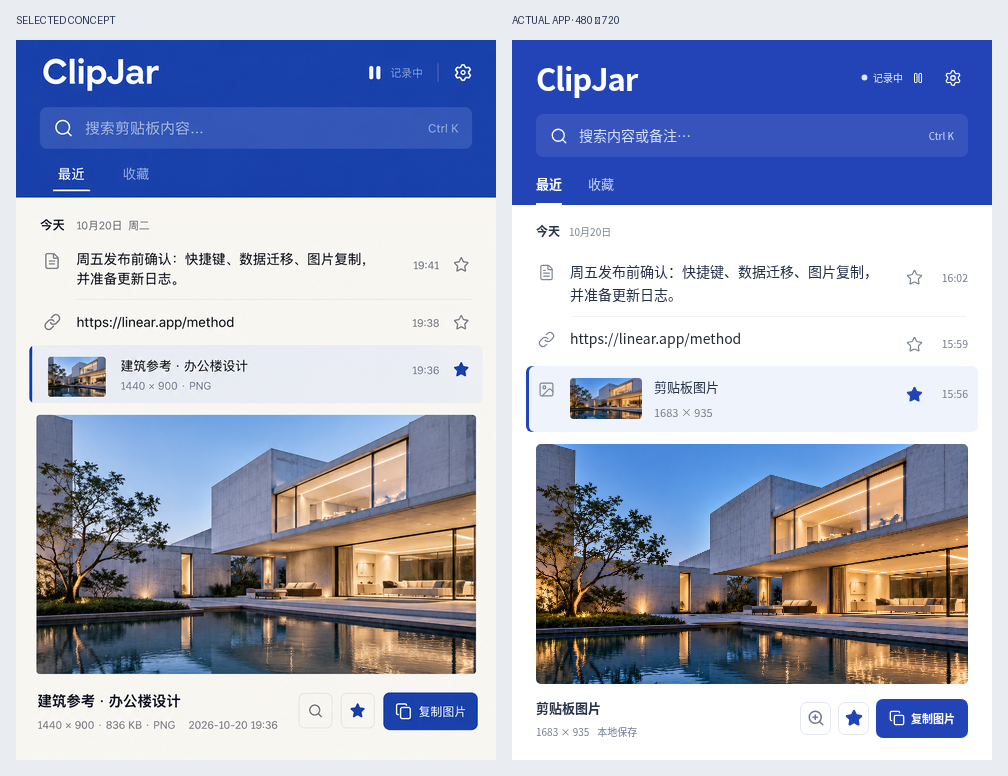
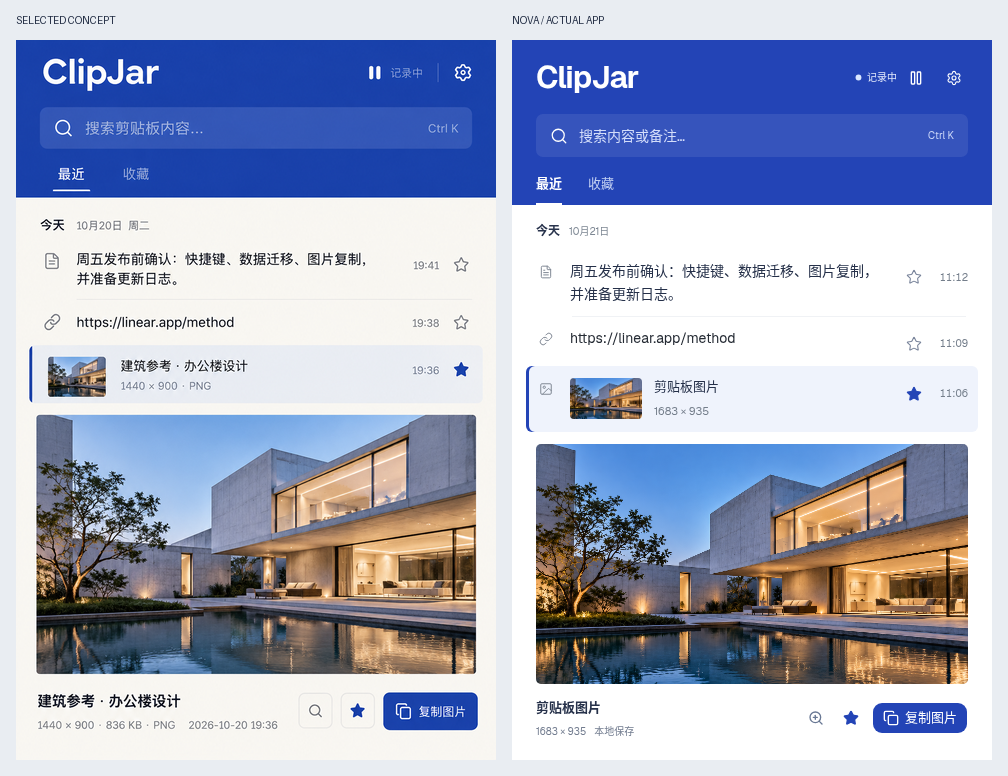
归档 Nova 组件截图、选型来源与三平台验证 [skip ci]

diff --git a/docs/freeze-report.md b/docs/freeze-report.md
@@ -1,49 +1,49 @@
-# 钴蓝与白色版本封板检查
+# Nova 组件迁移验证记录
 
-日期：2026-10-20（Asia/Shanghai）。应用版本维持 1.0.6；本轮完成代码与设计收口，没有发布安装包。
+2026-10-21（Asia/Shanghai）。当前应用版本 1.0.6，按用户指定的组件体系迁移并推送代码供查看。
 
-功能提交：[`5c9a85d`](https://github.com/KeatonLi/clipjar/commit/5c9a85d3e37515ff9de9896ac1e1e37a3b2bab4b)。
+验证代码：[`0515f0c`](https://github.com/KeatonLi/clipjar/commit/0515f0c439e2d6f79cc8559a0fe4e29c1248e9f1)。后续归档提交仅更新截图与说明。
 
-## 变更
+## 本次变更
 
-- 按选中的钴蓝构成稿完成顶栏、白色列表、选中态、设置和预览。
-- 增加图片内联工作区，保留原生图片像素复制、完整预览与键盘操作。
-- 损坏图片禁止复制和放大，明确提示恢复方式。
-- 将前端 Tauri API/插件版本对齐 Rust 锁文件，解决 CLI 构建时的版本检查失败。
-- 明确跨平台浏览器测试中 Windows 快捷键场景的模拟平台，同时保留独立 macOS 快捷键测试。
+- 当前界面使用 shadcn/ui 官方 Nova（Radix）基础组件、Geist 字体和 Lucide 图标。
+- 按钮、输入框、备注框、开关、筛选、快捷键单选、弹窗、暂停菜单、确认框和工具提示统一。
+- 自定义动效使用 Motion，并响应减少动态效果偏好；Zustand 与 Rust/SQLite 数据通路保留。
+- 修复菜单 Escape 影响背景选择、嵌套确认框取消后的焦点返回，以及 Motion 与撤销提示居中样式的冲突。
+- 保留钴蓝白色构成。没有对应功能的分栏、拖拽不添加依赖。
 
-## 本地完整验证
+## 本地验证
 
 | 检查 | 结果 |
 | --- | --- |
 | `npm test` | 33 项通过。 |
-| `cargo test --locked --manifest-path src-tauri/history-core/Cargo.toml` | 19 项存储/采集策略测试通过。 |
-| `python3 -m unittest discover -s tests -p 'test_*.py'` | 3 项诊断工具测试通过。 |
-| `npm run test:browser` | 全部通过，未捕获未处理页面异常。 |
-| `npm run tauri -- build --debug --no-bundle` | TypeScript、生产前端资源与 Linux Tauri 二进制构建通过。 |
-| `npm run test:native` | 真实 Linux Tauri 二进制通过，输出 `CLIPJAR_NATIVE_SMOKE_PASSED`。 |
-| 视觉对照 | [passed](../design-qa.md)，包含 480 × 720 与 420 × 600 状态。 |
-| Linux 原生界面操作 | 实际窗口加载 SQLite 示例及本地图片；点击“复制图片”成功，后端使用次数由 0 增至 1。 |
+| `npm run test:history` | 19 项存储与采集策略测试通过。 |
+| `python3 -m unittest discover -s tests -p 'test_*.py'` | 3 项诊断测试通过。 |
+| `npm run test:browser` | 原有回归与新增 Nova 场景全部通过，无未处理页面异常。 |
+| `npm run build` | TypeScript 与生产资源构建通过。 |
+| 生产资源浏览器检查 | 直接加载 dist，主界面、设置、图片工作区和菜单可运行，无页面异常。 |
+| `npm run tauri -- build --debug --no-bundle` | Linux 真实桌面二进制构建通过，包含生产前端资源。 |
+| `npm run test:native` | Linux 真实系统剪贴板、图片保存、隐藏采集、快捷键和隐私暂停通过。 |
+| 原生界面图片复制 | Linux Tauri 实际窗口点击复制成功，后端使用次数由 0 增至 1。 |
+| [视觉 QA](../design-qa.md) | passed，含 480 × 720、420 × 600 与 Linux 原生窗口。 |
 
-浏览器回归包含 170 条历史、跨批次键盘导航、全文预览与焦点、Mac 快捷键、图片原生像素复制、隐藏更新、独立设置失败/超时/重试、暂停不补录、删除撤销、旧事件拒绝、迁移失败保护与恢复、新图片工作区及损坏图片保护。
+新增 Nova 回归验证菜单键盘打开、方向键导航、Escape 后保留选中图片并返回焦点、Tooltip 显示、快捷键单选键盘操作、减少动态效果、嵌套确认框取消与焦点恢复、清空普通历史保留收藏、取消全部清空，以及确认后删除全部数据。
 
-原生冒烟包含系统文字/图片剪贴板、图片持久化、隐藏窗口继续采集、快捷键注册/注销、窗口显隐、暂停后不补录。Linux 云环境使用 Xvfb 和 rootless PRoot，将已安装的 WebKit 子进程路径映射到标准位置；没有关闭 WebKit 沙箱。测试使用临时数据目录，结束后清理。
+原有回归继续覆盖 170 条历史和跨批次键盘导航、全文/图片预览、原始图片像素复制、设置失败/超时/重试、隐藏更新、暂停不补录、删除撤销、迁移保护和小窗口焦点约束。
 
-## Windows / macOS
+Linux 云桌面使用 Xvfb，rootless PRoot 映射已安装的 WebKit 子进程路径；没有关闭 WebKit 沙箱。所有原生测试与截图使用隔离数据。
 
-[Desktop checks #6](https://github.com/KeatonLi/clipjar/actions/runs/39390341577) 已完成，整体结果 **success**，耗时 6 分 22 秒，验证提交为 `5c9a85d`。
+## Windows / macOS CI
 
-| 平台 | 单测与存储 | 浏览器回归 | 桌面二进制构建 | 真实原生冒烟 |
+[Desktop checks](https://github.com/KeatonLi/clipjar/actions/runs/39537168981) 整体 **success**，耗时 **2 分 57 秒**。
+
+| 平台 | 前端与存储单测 | 浏览器回归 | 真实桌面构建 | 原生冒烟 |
 | --- | --- | --- | --- | --- |
-| [Windows](https://github.com/KeatonLi/clipjar/actions/runs/39390341577/job/118520075656) | 通过 | 通过 | 通过 | 通过 |
-| [macOS 15](https://github.com/KeatonLi/clipjar/actions/runs/39390341577/job/118520075892) | 通过 | 通过 | 通过 | 通过 |
+| [Windows](https://github.com/KeatonLi/clipjar/actions/runs/39537168981/job/119016376897) | 通过 | 通过 | 通过 | 通过 |
+| [macOS 15](https://github.com/KeatonLi/clipjar/actions/runs/39537168981/job/119016376782) | 通过 | 通过 | 通过 | 通过 |
 
-两项任务均完成制品归档和收尾，所有步骤通过。该检查使用真实系统剪贴板与桌面二进制，浏览器场景另外使用模拟命令边界；自动化通过不等同于所有系统缩放、权限配置和安装包分发场景都已人工验证。
+两个任务包括制品归档与收尾均完成。自动化通过不表示所有系统缩放、屏幕阅读器或安装包分发场景都经过人工验收。
 
-## 封板结果
+本轮使用 Tailwind 4 与当前 Nova 样式，需要现代 WebView。旧系统兼容范围见[组件体系](component-system.md)；本轮发布的是 GitHub 代码与预览材料。
 
-本次范围内的设计、功能回归与三平台构建/原生冒烟已完成，没有遗留阻断项。后续截图与报告提交仅归档验收材料，不修改已验证的运行代码。
-
-## 查看效果
-
-[全部界面截图](ui-preview.md) · [设计稿对照](screenshots/cobalt-comparison.png)
+[查看实际截图](ui-preview.md) · [组件来源](component-system.md)

diff --git a/design-qa.md b/design-qa.md
@@ -1,33 +1,32 @@
-# ClipJar 钴蓝与白色视觉验收
+# ClipJar Nova 组件视觉 QA
 
 final result: passed
 
-2026-10-20。依据用户明确选择的“钴蓝构成 + 白色”制作，参考稿为 [02-cobalt.png](docs/design/concepts/02-cobalt.png)。本次验收对象是已有桌面应用，保留真实历史记录、系统复制、收藏、备注、搜索与隐私暂停。
+2026-10-21（Asia/Shanghai）。按用户指定的 shadcn/ui Nova、Lucide、Motion、Zustand 统一当前界面，保留已选的钴蓝与白色构成。没有对应功能的分栏和拖拽不引入。
 
-## 对照与观察
+## 来源与对照
 
-[并排对照](docs/screenshots/cobalt-comparison.png)：左为选中概念稿，右为实际运行页面。参考图从 1024 × 1536 等比缩至 480 × 720，实际截图为 480 × 720 CSS viewport、deviceScaleFactor 1，无拉伸。使用独立示例记录，时区 Asia/Shanghai。
+- 基础控件和 Nova 样式来自 shadcn/ui 官方提交 `ba1503c`，来源及局部适配见[组件体系](docs/component-system.md)。
+- [构成对照](docs/screenshots/cobalt-comparison.png)：左为此前选中的概念稿，右为当前 Nova 实际界面。参考稿从 1024 × 1536 等比归一到 480 × 720；右图 CSS viewport 480 × 720、deviceScaleFactor 1，没有拉伸。
+- [组件对照](docs/screenshots/nova-components.png)：本轮实际主界面、设置与确认弹窗，均使用隔离示例数据。
 
-- 钴蓝 `#2344b6` 集中在顶栏和主要动作；主体按用户要求使用纯白，替代概念稿的暖白。
-- 保留大字标、半透明搜索框、下划线导航、连续列表与轻量选中态。480 × 720 下顶栏约 165 px，图片主操作位于可见范围内。
-- 选中图片后，在记录下方显示大图、真实尺寸、放大、收藏与复制。图片点击用于选择，Enter 复制，Space 仍可打开完整预览。普通文本维持点击复制。
-- 不编造图片文件名、格式或文件大小；未备注时显示“剪贴板图片”。建筑照片由出图模型生成，仅作为测试素材，不进入生产前端包。
-- 设置与完整预览统一为钴蓝标题栏和白色内容。白色焦点轮廓用于蓝底控件，正文区保留蓝色焦点轮廓。
+## 检查与修正
 
-## 已检查表面
+1. 统一 Button 尺寸与变体、Input、Textarea、Switch、ToggleGroup、RadioGroup、Dialog、AlertDialog、DropdownMenu 和 Tooltip。Lucide 保持唯一图标库；采用 Nova 默认 Geist 字体，中文系统回退。
+2. 自写弹窗焦点逻辑由 Radix 模态管理替代；应用状态打开的弹窗补充焦点返回适配。确认框初始焦点在取消，取消或 Escape 后回到原清空按钮。
+3. 暂停菜单支持键盘打开、方向键移动、Escape 关闭并返回触发器。修复菜单 Escape 继续触发列表快捷键、清掉图片选中态的问题。
+4. 弹出内容、开关和撤销提示使用 Motion；减少动态效果偏好下不执行入场过渡。修正 Motion 与撤销提示水平居中样式冲突。
+5. 保留钴蓝顶栏、纯白主体、连续列表和图片工作区。480 × 720 下主要图片操作可见，420 × 600 主体可滚动；设置和确认框在窗口内完整显示。
 
-| 表面 | 结果与证据 |
+## 验收表面
+
+| 表面 | 证据与结果 |
 | --- | --- |
-| 主界面、图片操作 | [主界面](docs/screenshots/main.png)，无横向溢出；图片与复制动作在常用窗口内完整显示。 |
-| 设置、全文、图片预览 | [设置](docs/screenshots/settings.png)、[全文](docs/screenshots/content-preview.png)、[图片预览](docs/screenshots/image-preview.png)，内容可滚动，关闭与焦点恢复正常。 |
-| 420 × 600 小窗口 | [图片工作区](docs/screenshots/small-image.png)、[定时暂停](docs/screenshots/small-paused.png)，主体滚动，顶栏稳定，控制按钮不溢出。 |
-| 暂停与删除撤销 | [暂停菜单](docs/screenshots/pause-menu.png)、[删除撤销](docs/screenshots/delete-undo.png)，状态和操作仍清楚可见。 |
-| 图片错误状态 | 损坏图片显示说明并禁用复制与放大；重新选择恢复后的记录可正常预览和复制。 |
-| Linux 原生运行 | [Tauri 窗口客户区](docs/screenshots/native-linux.png)，真实本地图片加载正常；点击图片复制成功，后端使用次数从 0 增至 1。 |
-| 键盘、模态与反馈 | 170 条历史跨批次导航、搜索、Space、Escape、焦点约束、设置失败与重试均通过回归。 |
+| 主界面和图片工作区 | [截图](docs/screenshots/main.png)，蓝白配色、文本阅读与操作层次保持一致。 |
+| 设置与确认 | [设置](docs/screenshots/settings.png)、[确认框](docs/screenshots/clear-confirm.png)，危险操作与取消分开，背景隔离。 |
+| 菜单与提示 | [暂停菜单](docs/screenshots/pause-menu.png)，默认白色 Nova 菜单；工具提示实际显示并通过回归。 |
+| 完整预览 | [图片](docs/screenshots/image-preview.png)、[全文](docs/screenshots/content-preview.png)，滚动、复制、关闭与焦点返回通过回归。 |
+| 小窗口 | [图片操作](docs/screenshots/small-image.png)、[定时暂停](docs/screenshots/small-paused.png)，无横向溢出，控件可达。 |
+| 原生运行 | [Linux Tauri 客户区](docs/screenshots/native-linux.png)，实际二进制加载隔离 SQLite 记录与本地图片。 |
 
-## 验证边界
-
-主对照及各状态截图来自真实 React 页面与浏览器运行，使用隔离示例数据和原生命令模拟；另单独提供 Linux/Xvfb 的原生窗口截图，使用隔离 SQLite 数据。没有将它们标为 Windows/macOS 原生窗口截图。三平台构建与原生测试结果、完整命令见[封板记录](docs/freeze-report.md)。
-
-没有未解决的 P0/P1/P2 视觉问题。P3：系统字体回退、系统标题栏和缩放的细微差异仍取决于用户的桌面环境。
+没有遗留 P0/P1/P2 视觉问题。自动化验证含正常与减少动态效果模式；没有据截图宣称屏幕阅读器或全部系统缩放均已验收。Windows/macOS 原生测试结果见[验证记录](docs/freeze-report.md)。

diff --git a/docs/component-system.md b/docs/component-system.md
@@ -1,0 +1,40 @@
+# ClipJar 组件体系
+
+按用户指定的选型统一当前正在使用的界面：**shadcn/ui Nova + Lucide + Motion + Zustand**。主题保留钴蓝 `#2344b6` 与白色；分栏和拖拽尚无对应功能，因此没有引入 react-resizable-panels 或 dnd-kit。
+
+## 来源与配置
+
+- `components.json`：`radix-nova`，Lucide，React 客户端组件。
+- 基础组件来自 [shadcn/ui 官方 Radix 源码](https://github.com/shadcn-ui/ui/tree/ba1503c64472b82256d9de95e2e62c5901a38e8b/apps/v4/registry/bases/radix/ui)。shadcn/ui 以源码形式接入，并不要求安装一个运行时组件包。
+- Nova 样式来自同一提交的 [style-nova.css](https://github.com/shadcn-ui/ui/blob/ba1503c64472b82256d9de95e2e62c5901a38e8b/apps/v4/registry/styles/style-nova.css)，仅保留当前组件的样式段。使用默认白色菜单；主题变量在 `src/styles/tokens.css`。
+- 状态选择器来自 shadcn 4.22.1；Tailwind 4 通过 Vite 插件编译。旧版 Tailwind/PostCSS 配置已移除。
+- Nova 的 Geist 可变字体从 npm 自托管；中文使用系统字体回退，不依赖运行时字体 CDN。
+- 授权文件随前端资源分发：`public/licenses/`。
+
+Tailwind 4 和当前 Nova 样式需要现代 WebView（Safari 16.4+ 或 Chromium 111+）。本轮桌面矩阵验证 Windows 当前 WebView2 与 macOS 15；仓库历史打包配置中的旧 macOS 最低版本不代表这次迁移已验证兼容，分发安装包前需单独校正最低系统要求。
+
+## 实际采用的组件
+
+| 界面 | 基础组件 | 行为 |
+| --- | --- | --- |
+| 操作按钮、图标按钮 | Button、Tooltip | 统一尺寸/变体，图标操作有可访问名称和提示 |
+| 搜索、记录上限、备注 | Input、Textarea | 保留搜索、防抖、数值校验和备注保存 |
+| 最近 / 收藏 | ToggleGroup | 单选筛选，保留计数与键盘导航 |
+| 暂停时长 | DropdownMenu | 方向键导航、Escape 关闭、焦点返回触发器 |
+| 开机自启、窗口置顶 | Switch | 保留真实原生状态、失败重试、超时与禁用状态 |
+| 快捷键设置 | RadioGroup | 单选语义，支持方向键选择 |
+| 设置、全文和图片预览 | Dialog | 模态隔离、焦点约束、Escape 与焦点恢复 |
+| 清空历史 / 全部数据 | AlertDialog | 明确确认或取消，初始焦点在取消；普通历史清空保留收藏 |
+| 列表与图片工作区 | ItemRow、ImageInspector | 业务组件组合上述基础控件，保留原生复制与图片损坏保护 |
+
+## 动效与状态
+
+弹窗、确认框、菜单、工具提示的入场，开关滑块和撤销提示使用 `motion/react`。全局 `MotionConfig reducedMotion="user"`，各动效也读取减少动态效果偏好。Nova 的交互颜色过渡保留；原有 CSS 入场动画由 Motion 接管。
+
+Radix 管理组件语义、菜单和模态行为；额外适配了由应用状态打开弹窗时的焦点返回。菜单已处理的按键不会继续触发列表快捷键，避免关闭菜单时丢失图片选择。
+
+Zustand 继续保存应用状态。桌面历史和图片仍由 Rust/SQLite 持久化，组件迁移没有改用浏览器保存原生历史。
+
+添加控件时复用 `src/components/ui/`，按需从同一 Nova 体系添加；不要为同一功能混入另一套控件。升级官方源码时保留项目中的 Motion 和焦点返回适配。
+
+[实际界面](ui-preview.md) · [本次验证](freeze-report.md)

diff --git a/docs/ui-preview.md b/docs/ui-preview.md
@@ -1,43 +1,49 @@
-# ClipJar 钴蓝与白色界面
+# ClipJar · Nova 组件版
 
-按用户选中的钴蓝构成方案落地：钴蓝顶栏、纯白主体、连续列表和图片工作区。下面都是实际运行截图，使用隔离示例数据与原生命令模拟。
+**shadcn/ui Nova + Lucide + Motion + Zustand**，保留钴蓝与白色主题。这里展示的是已经实现并运行的界面。
 
-## 主界面与图片工作区
+## 组件概览
 
-文本点击复制；图片点击展开大图，支持放大、收藏和复制。键盘 Enter 复制，Space 打开完整预览。
+左为主界面，中间为设置，右为清空确认。基础组件统一使用 Nova；分栏与拖拽尚无功能需求，未引入对应库。
 
-![钴蓝与白色主界面](screenshots/main.png)
+![Nova 组件概览](screenshots/nova-components.png)
 
-## 偏好设置
+## 主界面
 
-![偏好设置](screenshots/settings.png)
+![ClipJar 主界面](screenshots/main.png)
 
-## 完整内容预览
+文本点击复制；图片点击展开工作区。Enter 复制，Space 打开完整预览。收藏、备注、搜索和隐私暂停保持可用。
 
-![图片完整预览](screenshots/image-preview.png)
+## 设置与清空确认
 
-![全文预览](screenshots/content-preview.png)
+![设置](screenshots/settings.png)
 
-## 暂停与撤销
+![清空确认](screenshots/clear-confirm.png)
+
+开关保留真实桌面状态与失败重试。清空操作使用确认弹窗，默认焦点在取消；清空普通历史会保留收藏和备注。
+
+## 暂停、预览与撤销
 
 ![暂停菜单](screenshots/pause-menu.png)
 
+![图片预览](screenshots/image-preview.png)
+
+![全文预览](screenshots/content-preview.png)
+
 ![删除撤销](screenshots/delete-undo.png)
 
-## 小窗口
-
-420 × 600 下主体可滚动，复制、收藏、搜索、设置和暂停仍可操作。
+## 420 × 600 小窗口
 
 ![小窗口图片操作](screenshots/small-image.png)
 
 ![小窗口定时暂停](screenshots/small-paused.png)
 
-[设计稿与运行效果对照](screenshots/cobalt-comparison.png) · [视觉验收](../design-qa.md) · [封板记录](freeze-report.md)
-
 ## Linux 原生运行
 
-下图直接捕获 Tauri 二进制的窗口客户区，运行于 Linux/Xvfb，使用隔离的 SQLite 示例数据。图片通过本地 asset 协议加载；实际点击“复制图片”成功，后端使用次数由 0 增至 1。此云桌面使用 UTC，所以上图与此图的示例时间不同。
+下面直接捕获 Linux/Xvfb 中 Tauri 二进制的窗口客户区，使用隔离 SQLite 示例数据与真实本地图片。
 
 ![Linux Tauri 原生窗口](screenshots/native-linux.png)
 
-前面的图片展示浏览器界面，不代表 Windows/macOS 原生窗口的像素效果。各平台原生测试结果单独记录在封板报告中。
+其余截图来自本轮实际 React 页面与隔离原生命令模拟，不标作 Windows/macOS 原生截图。
+
+[组件体系与官方来源](component-system.md) · [设计稿对照](screenshots/cobalt-comparison.png) · [测试结果](freeze-report.md)

diff --git a/docs/design-review.md b/docs/design-review.md
@@ -1,11 +1,11 @@
-# ClipJar 钴蓝与白色
+# ClipJar Nova 组件迁移
 
-按用户选中的[钴蓝构成稿](design/concepts/02-cobalt.png)完成。大面积钴蓝顶栏搭配纯白主体，保留连续列表；颜色集中在品牌、导航、选中标记和主要动作。
+保留选中的钴蓝与白色构成，将当前基础控件统一为 **shadcn/ui Nova（Radix）**。图标使用 Lucide，交互动效使用 Motion，状态继续使用 Zustand。默认 Nova 的 Geist 字体在应用内自托管，中文按系统字体回退。
 
-图片记录增加内联工作区：选择后直接看大图、收藏或复制，需要时再进入完整预览。尺寸来自原始记录，没有备注时使用“剪贴板图片”。示例建筑照片只用于截图和测试，不随生产应用加载。
+本次替换按钮、输入框、备注框、开关、单选筛选、快捷键选择、弹窗、暂停菜单和工具提示。清空数据使用明确的确认弹窗；保留剪贴板复制、收藏、备注、迁移、隐私暂停与图片工作区。
 
-设置、预览与小窗口同步调整。详细检查见[视觉验收](../design-qa.md)，测试和构建结果见[封板记录](freeze-report.md)。
+![Nova 组件实际运行](screenshots/nova-components.png)
 
-![选中概念稿与实际应用](screenshots/cobalt-comparison.png)
+上图为本轮实际浏览器运行：主界面、设置和清空确认。使用隔离示例数据与原生命令模拟。另有 Linux Tauri 原生窗口截图，详见[界面预览](ui-preview.md)。
 
-左侧为选中的概念稿，右侧为实际浏览器运行截图。纯白主体是按用户最新要求作出的调整；图片内容为生成的独立示例素材。
+[组件来源与选型](component-system.md) · [视觉 QA](../design-qa.md) · [验证记录](freeze-report.md)

diff --git a/README.md b/README.md
@@ -26,7 +26,7 @@
 
 ## 界面预览
 
-[查看主界面、全文预览和偏好设置截图](docs/ui-preview.md)。截图使用独立示例数据，来自浏览器开发模式。
+[查看 Nova 组件版实际界面](docs/ui-preview.md)：使用 shadcn/ui Nova、Lucide、Motion 和 Zustand，保留钴蓝与白色主题。[组件来源与选型说明](docs/component-system.md)。截图使用独立示例数据，同时提供浏览器与 Linux Tauri 原生窗口的运行证据。
 
 ---
 
